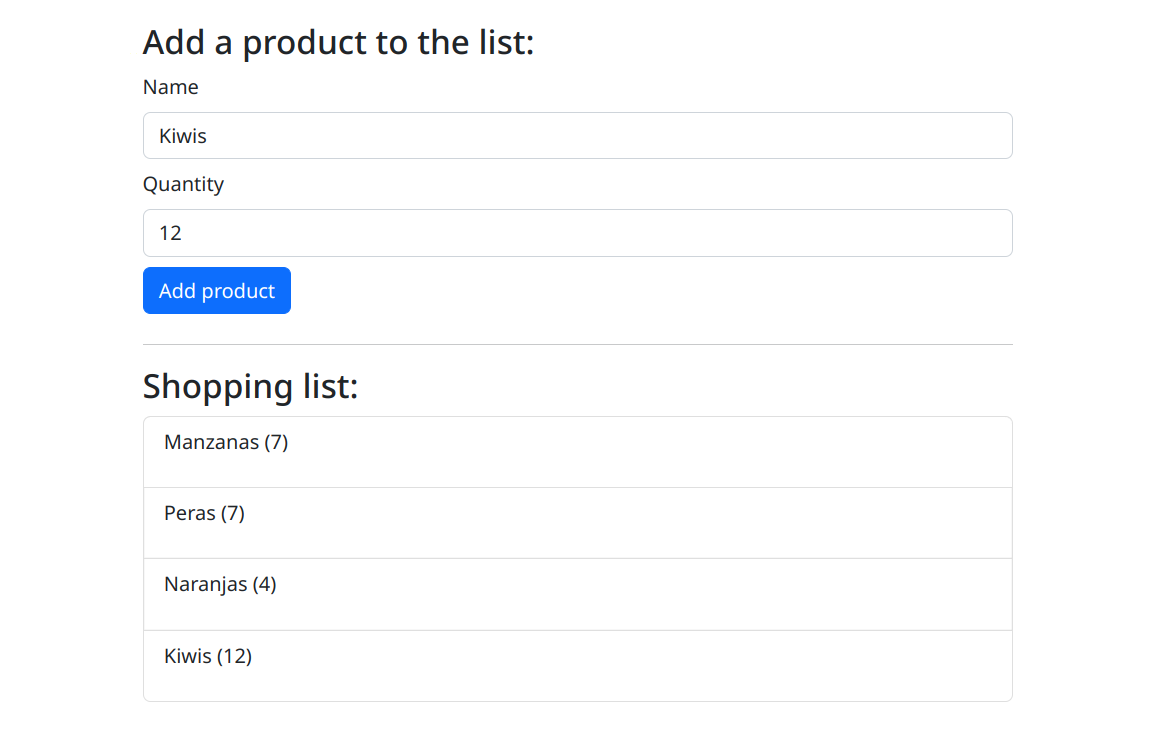
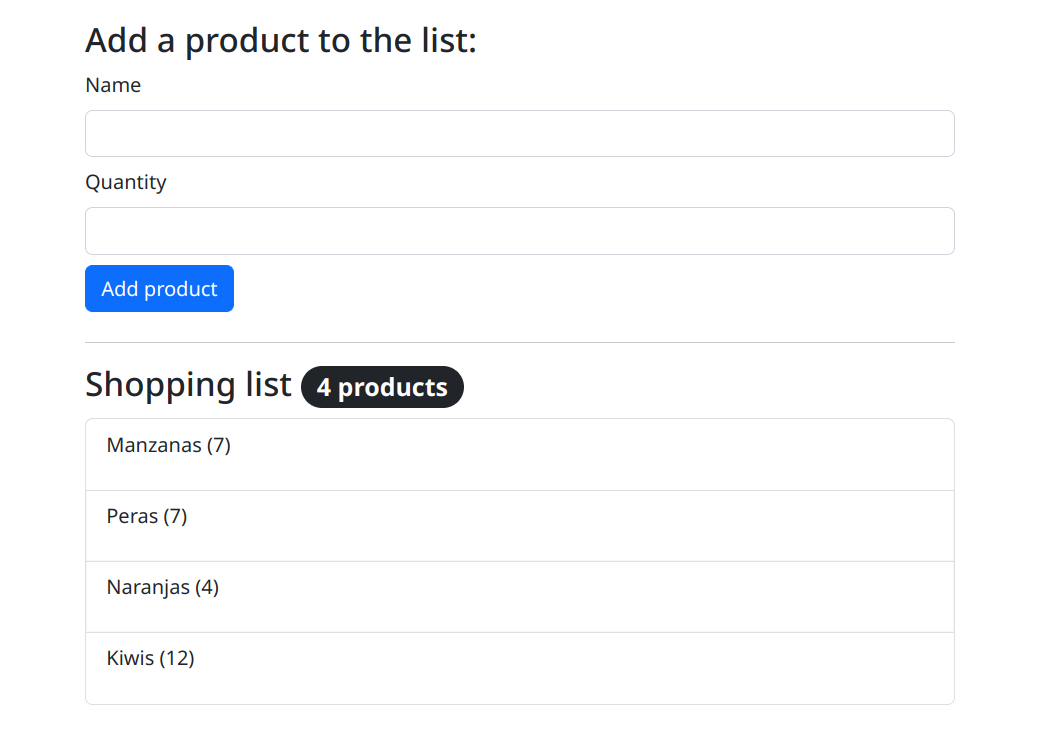
feat: add products counter

diff --git a/src/App.js b/src/App.js
@@ -1,6 +1,7 @@
 import React, { useState, useEffect } from 'react';
 import axios from 'axios';
 
+import Badge from 'react-bootstrap/Badge';
 import Form from 'react-bootstrap/Form';
 import ListGroup from 'react-bootstrap/ListGroup';
 import Button from 'react-bootstrap/Button';
@@ -70,7 +71,7 @@ function App() {
       <hr />
       <Row className="mb-4">
         <Col>
-          <h3>Shopping list:</h3>
+          <h3>Shopping list <Badge bg="dark" pill>{products.length} products</Badge></h3>
           <ListGroup>
             {products.map((product) => {
               return (
